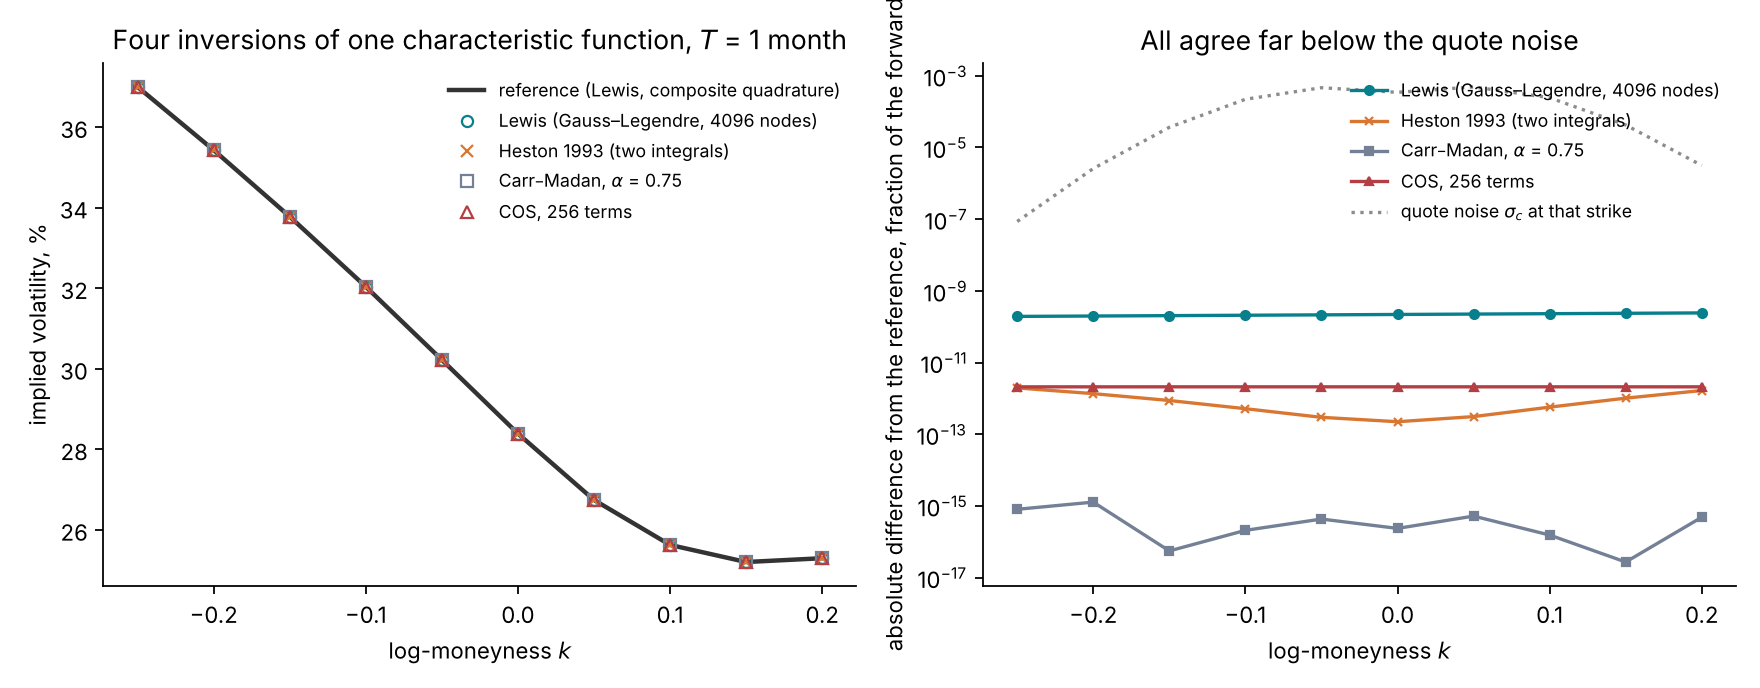
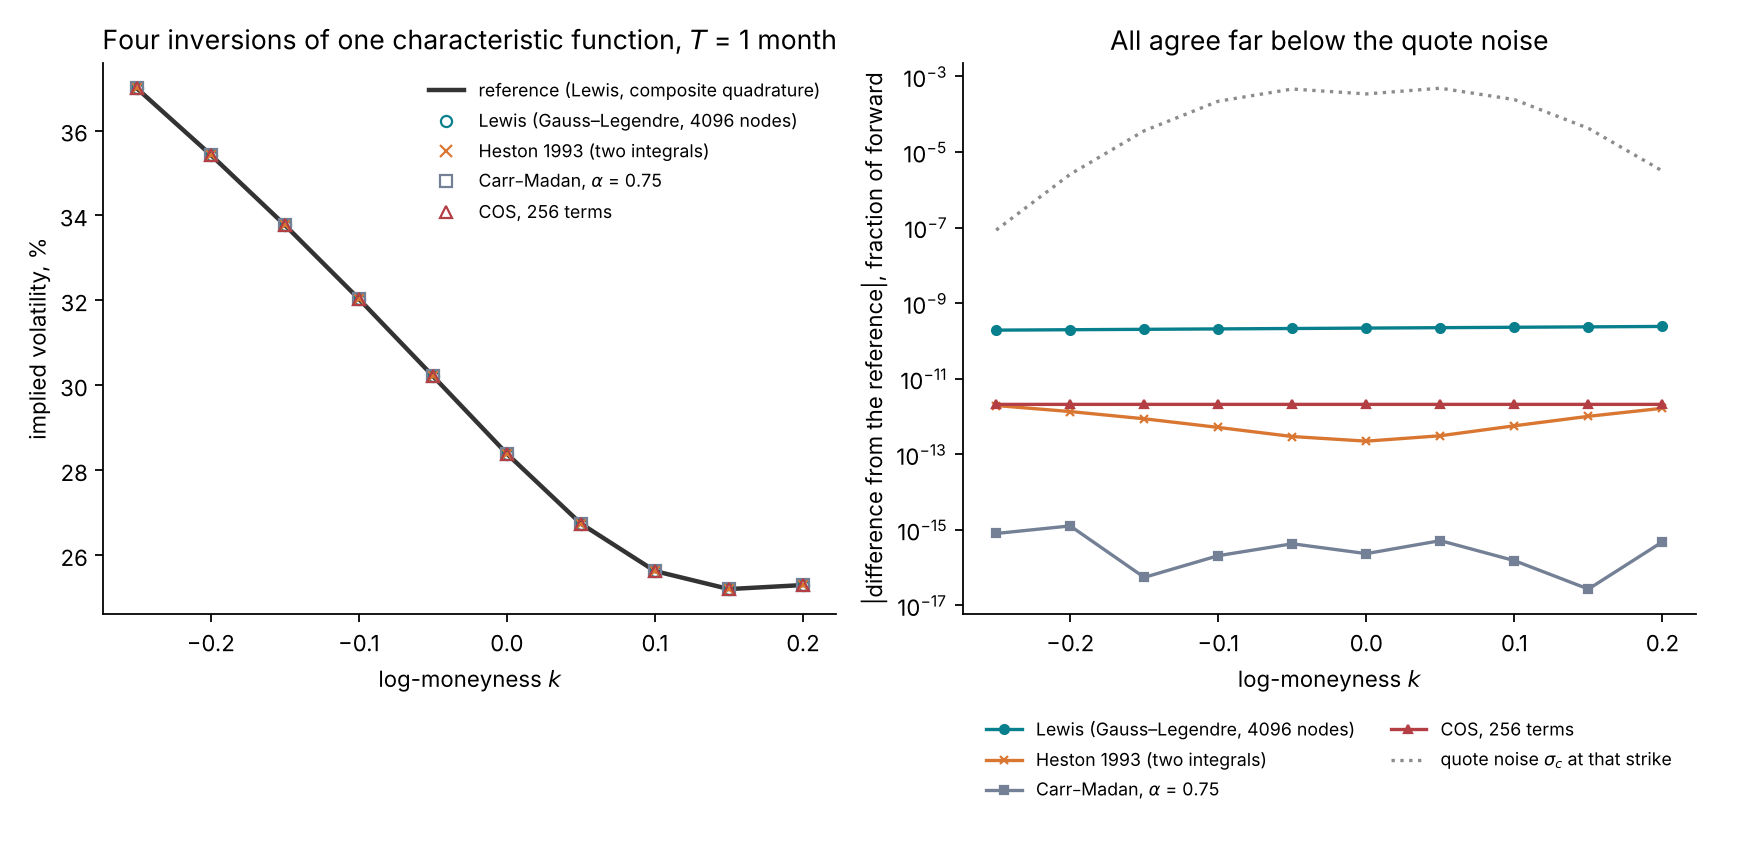
Course lectures 6-7: corrections from independent review
Heston integrand tail decay, composite-quadrature reference for the Fourier checks,
identification of eta via the ATM level qualified, leading-order skew exponent,
costs stated as lower bounds, Markovian approximations cited, PROJ attribution,
roughness statistic on log volatility, reference fixes.

Claude-Session: https://claude.ai/code/session_01WKSw54nWszKuph7kz2GMSW

diff --git a/docs/course/07-rough-bergomi.md b/docs/course/07-rough-bergomi.md
@@ -145,7 +145,7 @@ For each future date $u$, the integral weights the past shocks by $(u - s)^{H - 
 
 *Figure 7.4.* How to read the figure: the two histories are chosen among 20,000 simulated 63-day pasts at the prior centre because they end within 0.02 of $Y_t = 0$, at −0.007 and −0.011, so the current variance is the same. In one (red) the driver fell early and rose in the last month; in the other (teal) it rose early and fell. The right panel computes $\sqrt{\xi_t(u)}$ from the formula above. The curves differ already the next day, 15.6% against 17.4%, and 189 trading days later they are 18.7% and 26.4%. As the horizon grows, the weights $(u - s)^{H - \frac12}$ of old and recent shocks become more equal, so the early shocks of each history regain influence. In Heston the two histories would give the same curve.
 
-**Consequences.** Without a finite Markov state there is no partial differential equation in a few variables and no affine structure, so neither a Fourier nor a PDE method of Lecture 6 applies. Pricing must simulate each path from time zero on a fine grid. Roughness alone is not the cause: rough Heston (El Euch and Rosenbaum 2019) keeps an affine structure and a characteristic function that solves a fractional Riccati equation numerically. Rough Bergomi's log-normal variance has no such structure, so it has no exact Fourier or PDE pricer. Approximations exist: replacing the power kernel by a sum of exponentials gives a Markovian model with many factors, an approach that Abi Jaber and El Euch (2019) develop for rough volatility models and apply to rough Heston. The repository and the tutorial price rough Bergomi by Monte Carlo.
+**Consequences.** Without a finite Markov state there is no partial differential equation in a few variables and no affine structure, so neither a Fourier nor a PDE method of Lecture 6 applies. Monte Carlo pricing must simulate each path from time zero on a fine grid. Roughness alone is not the cause: rough Heston (El Euch and Rosenbaum 2019) keeps an affine structure and a characteristic function that solves a fractional Riccati equation numerically. Rough Bergomi's log-normal variance has no such structure, so it has no exact Fourier or PDE pricer. Approximations exist: replacing the power kernel by a sum of exponentials gives a Markovian model with many factors, an approach that Abi Jaber and El Euch (2019) develop for rough volatility models and apply to rough Heston. The repository and the tutorial price rough Bergomi by Monte Carlo.
 
 ## 7.6 Simulating the driver: the hybrid scheme
 
@@ -253,7 +253,7 @@ the simulation inflates the noise standard deviation by at most 3.1%. Each grid 
 
 ![Left: the Monte Carlo standard error of four 10-day puts against the number of paths, in units of the quote noise, with the budget. Right: the standard error of all 63 quotes of one surface at the prior centre with 2^15 paths per grid.](images/l07-error-budget.png)
 
-*Figure 7.7.* How to read the figure: in the left panel the standard error falls as $N^{-1/2}$, by a factor of about 0.7 per doubling. The put at $\delta = -2$ is the hardest: 0.43 $\sigma_c$ at 4,096 paths, 0.30 at 8,192, 0.21 at 16,384 and 0.15 at 32,768, so it meets the budget from 16,384 paths. The put at $\delta = +2$, whose payoff the controls explain, is at 0.008 $\sigma_c$ at 32,768 paths. The 10-day grid with 32,768 paths took 0.35 CPU-seconds. In the right panel, the whole surface at $2^{15}$ paths per grid has a largest error of 0.21 $\sigma_c$, at six months and $\delta = -2$, and a median of 0.048 $\sigma_c$, so no grid needs more paths. The errors are largest for the far puts and smallest for the calls. The surface took 4.5 CPU-seconds in this run; the same surface is cached in `tutorial_final/results/calibration/smile/example-rough.json` with the same largest and median errors.
+*Figure 7.7.* How to read the figure: in the left panel the standard error falls as $N^{-1/2}$, by a factor of about 0.7 per doubling. The put at $\delta = -2$ is the hardest: 0.43 $\sigma_c$ at 4,096 paths, 0.30 at 8,192, 0.21 at 16,384 and 0.15 at 32,768, so it meets the budget from 16,384 paths. The put at $\delta = +2$, whose payoff the controls explain, is at 0.008 $\sigma_c$ at 32,768 paths. The 10-day grid with 32,768 paths took 0.35 CPU-seconds. In the right panel, the whole surface at $2^{15}$ paths per grid has a largest error of 0.21 $\sigma_c$, at six months and $\delta = -2$, and a median of 0.048 $\sigma_c$, so no grid needs more paths. The errors are largest for the far puts and smallest for the calls. The surface took 4.4 CPU-seconds in the latest run of the script; the same surface is cached in `tutorial_final/results/calibration/smile/example-rough.json` with the same largest and median errors.
 
 **Cost across the prior.** One surface at the prior centre costs a median of 4.96 CPU-seconds at the first rung of the path ladder, measured on a flat 20% curve without the budget check (`tutorial_final/results/calibration/costs/costs.json`, study S9). Across the tutorial's pilot bank of 2,200 surfaces drawn from the prior, 23%, 26% and 31% of the 10-day, 63-day and one-year grids needed more than $2^{15}$ paths, and none needed $2^{21}$; the average cost was 11.9 CPU-seconds per surface (`tutorial_final/results/calibration/rough-pilot/s1/bank-quality.json`). Over all quotes of the bank, $s_c/\sigma_c$ has a median of 0.040, a 99% quantile of 0.22 and a largest value of 0.250, and no surface has a quote above the budget. The Monte Carlo error adds a median of 0.16% to the noise variance (same file).
 

diff --git a/docs/course/06-heston.md b/docs/course/06-heston.md
@@ -212,7 +212,7 @@ where the prime halves the first term. Integrating the put payoff against each c
 
 ![Left: one-month implied volatilities at the centre of the prior from four inversions and a reference. Right: the absolute price error of each against the reference, with the quote noise of the design grid at the same strikes.](images/l06-four-inversions.png)
 
-*Figure 6.5.* How to read the figure: the four methods are implemented in `scripts/course/lecture06.py` on the same characteristic function. They are compared with a reference: the Lewis integral by composite Gauss–Legendre quadrature (panels of width 1.5 with 64 nodes each, up to a cutoff of 284), which changes by $2 \times 10^{-15}$ of the forward when the panel width is halved. Their smiles coincide (left). On the right, Carr–Madan agrees with the reference to $1.3 \times 10^{-15}$ of the forward, the two-probability form to $2.0 \times 10^{-12}$, COS with 256 terms to $2.1 \times 10^{-12}$ (the same at 1,024 terms), and the Lewis rule with 4,096 nodes on $[0, 3{,}000]$ to between $1.9 \times 10^{-10}$ and $2.4 \times 10^{-10}$. The largest of these differences is 350 times smaller than the smallest quote noise at these strikes, $8.6 \times 10^{-8}$, which is that of the put at $k = -0.25$, beyond the design grid (whose one-month strikes span $k = \pm 0.115$). The reference matters at this level: a single Gauss–Legendre rule with 16,384 nodes on $[0, 8{,}000]$ is itself off by $1.6 \times 10^{-10}$, and one with 32,768 nodes on $[0, 400]$ by $2.6 \times 10^{-11}$. In this script COS took 0.0036 CPU-seconds for 10 prices, the two adaptive-quadrature methods about 0.037, and the vectorized Lewis quadrature 0.51; the timings describe this code, not the methods' best implementations. The design document's Appendix J.1 compares the integrands of the two-probability and Lewis forms, and finds a largest price gap of $2 \times 10^{-10}$ of the forward on 13 one-week calls.
+*Figure 6.5.* How to read the figure: the four methods are implemented in `scripts/course/lecture06.py` on the same characteristic function. They are compared with a reference: the Lewis integral by composite Gauss–Legendre quadrature (panels of width 1.5 with 64 nodes each, up to a cutoff of 284), which changes by $2 \times 10^{-15}$ of the forward when the panel width is halved. Their smiles coincide (left). On the right, Carr–Madan agrees with the reference to $1.3 \times 10^{-15}$ of the forward, the two-probability form to $2.0 \times 10^{-12}$, COS with 256 terms to $2.1 \times 10^{-12}$ (the same at 1,024 terms), and the Lewis rule with 4,096 nodes on $[0, 3{,}000]$ to between $1.9 \times 10^{-10}$ and $2.4 \times 10^{-10}$. The largest of these differences is 350 times smaller than the smallest quote noise at these strikes, $8.6 \times 10^{-8}$, which is that of the put at $k = -0.25$, beyond the design grid (whose one-month strikes span $k = \pm 0.115$). The reference matters at this level: a single Gauss–Legendre rule with 16,384 nodes on $[0, 8{,}000]$ is itself off by $1.6 \times 10^{-10}$, and one with 32,768 nodes on $[0, 400]$ by $2.6 \times 10^{-11}$. In this script COS took 0.0015 CPU-seconds for 10 prices, the two adaptive-quadrature methods about 0.037, and the vectorized Lewis quadrature 0.50; the timings describe this code on one run, not the methods' best implementations. The design document's Appendix J.1 compares the integrands of the two-probability and Lewis forms, and finds a largest price gap of $2 \times 10^{-10}$ of the forward on 13 one-week calls.
 
 ## 6.7 The quadrature ladder
 
